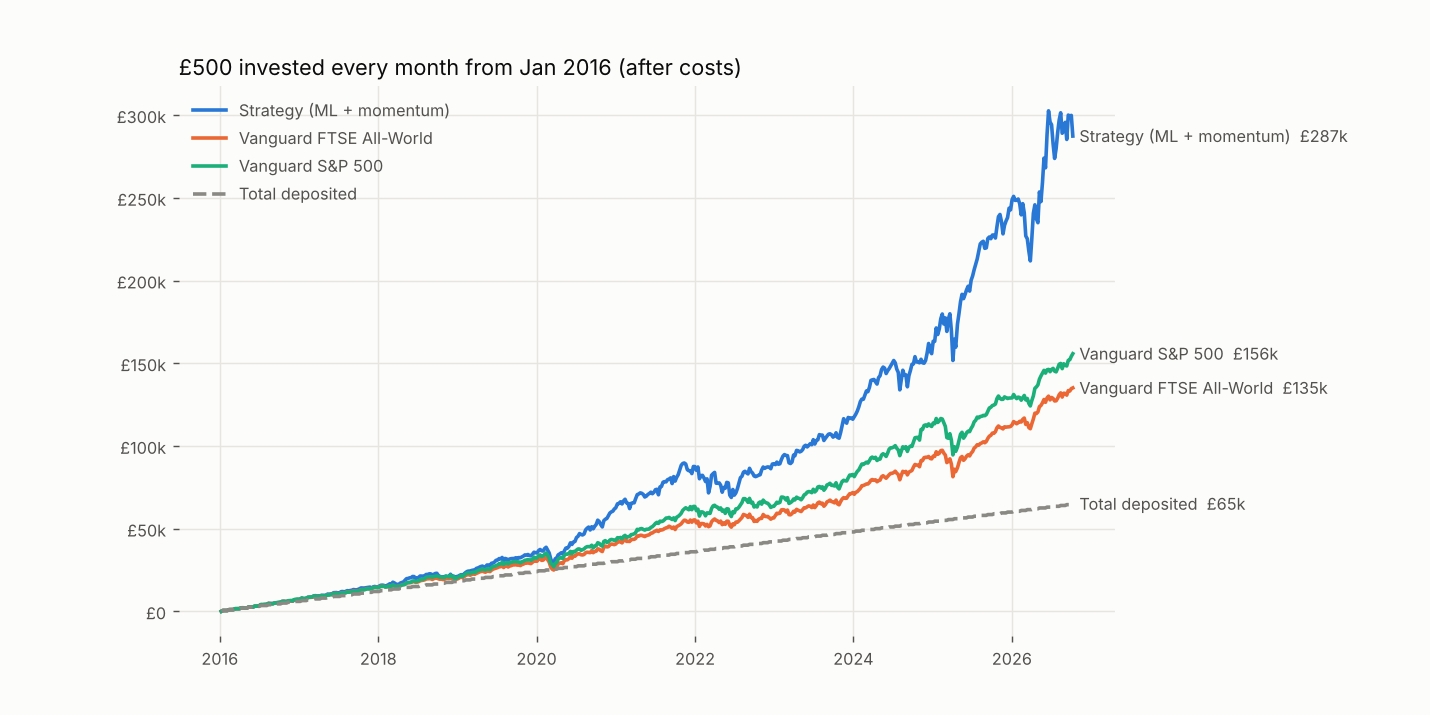
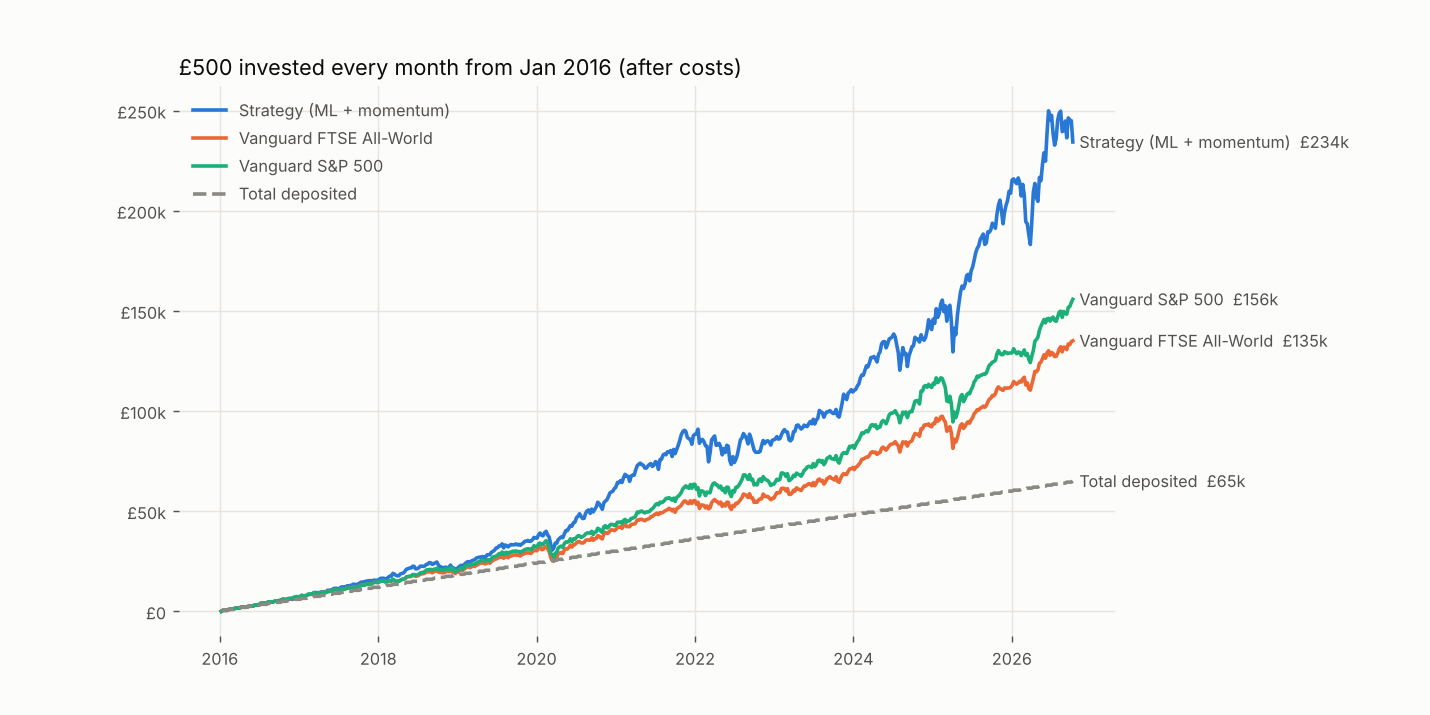
Plan: results with weekly retraining; rerun Phase 1b variant search
Weekly retraining (matching the live run): strategy 24.4% CAGR, Sharpe 1.18,
holdout 22.3% / 1.00, vs 16.5% / 13.9% for S&P 500 / All-World buy & hold.
Documents how much results move with implementation details (+-3 pts full
period, +-6 pts holdout) at an unchanged IC of ~0.022.

Phase 1b rerun with weekly retraining: ML only (10 stocks) and the residual/
sector-momentum model now pass the pre-set rule, where none passed with
4-week retraining, and none improves the holdout. Decision left open.
Both runs' full tables are in docs/.

Claude-Session: https://claude.ai/code/session_014oMbSvjq6m2KbbSfiWCRmW

diff --git a/PLAN.md b/PLAN.md
@@ -217,14 +217,14 @@ weeks, score smoothing 1 or 4 weeks, hold band 45/90/150. The best tuning-period
 1-week labels, 4-week smoothing and a top-150 hold band. All 12 combinations beat the benchmark's
 CAGR on the holdout, so the result does not depend on one lucky setting.
 
-### Results with the chosen settings (5-seed ensemble)
+### Results with the chosen settings (5-seed ensemble, weekly retraining)
 
 **Lump sum: £10,000 invested once in January 2016**
 
 | | Final value | CAGR | Volatility | Sharpe | Max drawdown |
 |---|---|---|---|---|---|
-| **Strategy (70% ML + 30% momentum)** | **£127,171** | **26.6%** | 20.6% | **1.25** | −26.5% |
-| ML only | £109,143 | 24.8% | 20.8% | 1.17 | −25.0% |
+| **Strategy (70% ML + 30% momentum)** | **£105,545** | **24.4%** | 20.2% | **1.18** | −24.7% |
+| ML only | £135,845 | 27.4% | 20.8% | 1.27 | −25.7% |
 | Momentum rule only | £40,989 | 14.0% | 15.9% | 0.90 | −23.2% |
 | Buy & hold Vanguard S&P 500 (VUSA) | £51,916 | 16.5% | 15.3% | 1.08 | −25.1% |
 | Buy & hold Vanguard FTSE All-World (VWRL) | £40,638 | 13.9% | 13.9% | 1.01 | −24.6% |
@@ -234,66 +234,73 @@ CAGR on the holdout, so the result does not depend on one lucky setting.
 
 | Invested into | Final value | Money-weighted return (XIRR) |
 |---|---|---|
-| **Strategy** | **£287,349** | **25.8%** |
+| **Strategy** | **£234,329** | **22.4%** |
 | Vanguard S&P 500 | £155,767 | 15.4% |
 | Vanguard FTSE All-World | £135,089 | 13.0% |
 
 ![Monthly investing](docs/backtest_dca.png)
 
-Weekly turnover 5.9%, costs 0.9% of the account a year, about 22 stock swaps a year. The strategy beat
-VWRL in 10 of 11 calendar years (it lagged in 2022) and the equal-weight universe in 8 of 11. Profits
-came from 121 different stocks; the top 10 made 51% of the total (NVIDIA, Rolls-Royce, Tesla, BBVA and
-UniCredit were the largest).
+Weekly turnover 5.2%, costs 0.8% of the account a year, about 20 stock swaps a year. The strategy beat
+VWRL in 9 of 11 calendar years (it lagged in 2022 and in 2026 to date) and the equal-weight universe in
+8 of 11. Profits came from 123 different stocks; the top 10 made 52% of the total (NVIDIA, UniCredit,
+Rolls-Royce, ASM International and AMD were the largest).
 
-### Tuning period vs holdout, and why the blend rather than ML only
+### Tuning period vs holdout
 
 | | Tuning, Jan 2016 – Jun 2024: CAGR / Sharpe | **Holdout, Jul 2024 – Oct 2026: CAGR / Sharpe** |
 |---|---|---|
-| **Strategy (blend)** | 25.8% / 1.26 | **29.7% / 1.22** |
-| ML only | 28.2% / 1.30 | 12.8% / 0.67 |
+| **Strategy (blend)** | 25.0% / 1.24 | **22.3% / 1.00** |
+| ML only | 29.7% / 1.38 | 19.0% / 0.90 |
 | Momentum rule only | 14.7% / 0.93 | 11.2% / 0.79 |
 | Buy & hold VWRL | 13.3% / 0.95 | 16.1% / 1.23 |
 | Buy & hold VUSA | 16.7% / 1.07 | 15.7% / 1.12 |
 | Equal-weight universe | 18.5% / 1.20 | 14.1% / 1.17 |
 
-The 70/30 weight was set before any real-data result and never tuned. ML only looked better in the
-tuning period but fell to 12.8% in the holdout, while the blend held up. The momentum rule steadied
-the strategy through a weak stretch for the ML signal. This comparison uses the holdout, so the
-holdout can no longer be used to tune the weight. The weight stays at 70/30, and paper trading is the
-next independent test. In the holdout the strategy's risk-adjusted return (Sharpe 1.22) was about the
-same as the global index fund's (1.23): it earned more by taking more risk.
+The 70/30 weight was set before any real-data result. ML only looked better in the tuning period and
+worse in the holdout, in both versions of the backtest (§14). In the holdout the strategy earned more
+than the index funds but with a lower Sharpe (1.00 against 1.23 for VWRL): it took more risk for it.
+The holdout has now been viewed several times, so paper trading is the next independent test.
 
-### Seed sensitivity and the ensemble
+### How much the numbers move with implementation details
 
-Training the same settings with four different random seeds gave 28.2%, 23.4%, 24.1% and 24.8% CAGR
-(holdout 27.6%, 20.2%, 23.2%, 17.5%). With 15 positions, one different early pick changes every later
-trade. The live model therefore averages five seeds. **Treat a single backtest figure as ±3 points.**
-Same-seed reruns are identical. An earlier 25.3% → 27.6% shift came from Yahoo revising its data
-between two downloads.
+The same strategy, implemented slightly differently:
+
+| Version | Full-period CAGR | Sharpe | Holdout CAGR |
+|---|---|---|---|
+| Single model (seed 0), retrained every 4 weeks | 28.2% | 1.32 | 27.6% |
+| Single model (seeds 1–3), retrained every 4 weeks | 23.4–24.8% | 1.17–1.23 | 17.5–23.2% |
+| 5-seed ensemble, retrained every 4 weeks | 26.6% | 1.25 | 29.7% |
+| **5-seed ensemble, retrained weekly (current)** | **24.4%** | **1.18** | **22.3%** |
+
+The model's skill barely changes across these (weekly IC 0.021–0.022). The portfolio results move
+because, with 15 positions, one different borderline pick changes every later trade. **Treat any single
+backtest figure as about ±3 points over the full period and ±6 points over the holdout.** Same-seed
+reruns are identical; an earlier 25.3% → 27.6% shift came from Yahoo revising its data between two
+downloads. The live run and the backtest now retrain on the same weekly schedule, and a test checks that
+they produce identical scores.
 
 ### Sector cap test
 
 A cap of 4 stocks per sector cut CAGR from 25.3% to 22.2% over the full period, and from 26.9% to
-18.9% in the holdout (Sharpe 0.96), in a single-seed run. Drawdowns didn't improve. The cap is
-available but off by default. Today's universe includes the semiconductor winners *because* they won,
-so the backtest likely overstates the value of concentrating in them.
+18.9% in the holdout (Sharpe 0.96), in a single-seed run with 4-week retraining. Drawdowns didn't
+improve. The cap is available but off by default. Today's universe includes the semiconductor winners
+*because* they won, so the backtest likely overstates the value of concentrating in them.
 
 ### How to read these numbers
 
 - **Survivorship bias inflates the strategy, not the index funds.** The strategy picks from today's
   large caps. VWRL and VUSA are real funds you could have bought in 2016. The fair stock-picking
-  measure is the excess over the equal-weight universe (~9 pts a year), and even that is probably
+  measure is the excess over the equal-weight universe (~7 pts a year), and even that is probably
   optimistic.
 - **The edge is modest and volatile.** Weekly IC is ~0.02, and the model ranks stocks better than
-  chance in only 55% of weeks (the portfolio itself is up in 60% of weeks). The strategy is also more
-  volatile than an index fund (20.6% vs 13.9%), with similar worst drawdowns.
+  chance in only ~56% of weeks. The strategy is also more volatile than an index fund (20.2% vs 13.9%),
+  with similar worst drawdowns.
 - **Next step:** paper trade for 8–12 weeks (Phase 2). Compare live weekly IC and turnover with the
   backtest before committing the 10k.
 
 ## 14. Phase 1b: testing the weights and other strategy variants (October 2026)
 
-**Rules set before running** (`research/phase1b_variants.py`, full results in
-`docs/phase1b_variants.csv`):
+**Rules set before running** (`research/phase1b_variants.py`):
 
 1. Choose only on Jan 2016 – Jun 2024. The Jul 2024 – Oct 2026 holdout had already been viewed, so it
    is reported but not used to choose.
@@ -305,38 +312,48 @@ so the backtest likely overstates the value of concentrating in them.
 × equal or inverse-volatility weights), plus 3 model variants (trees with residual and within-sector
 momentum; linear model; linear with the extra features).
 
-**Result: no variant passed. The strategy is unchanged.**
+The search ran twice: first with the model retrained every 4 weeks
+(`docs/phase1b_variants_4wk_retrain.csv`), then again after switching to weekly retraining
+(`docs/phase1b_variants.csv`).
 
-| ML weight (average over settings) | Selection-period Sharpe | Holdout Sharpe |
+**Results with weekly retraining**
+
+| Variant | Selection CAGR / Sharpe | Sub-period Sharpes | Holdout CAGR / Sharpe | Rule: weekly / 4-week run |
+|---|---|---|---|---|
+| **Current: 70% ML, 15 stocks, equal, trees** | 25.0% / 1.24 | 1.16 / 1.75 / 0.70 | 22.3% / 1.00 | — |
+| ML only, 10 stocks, equal | 35.9% / 1.47 | 1.29 / 1.94 / 1.14 | 20.8% / 0.95 | passes / failed |
+| ML only, 10 stocks, inverse-vol | 31.0% / 1.41 | 1.28 / 1.86 / 1.04 | 19.6% / 0.95 | passes / failed |
+| ML only, 15 stocks | 29.0% / 1.35 | 1.30 / 1.73 / 0.96 | 17.0% / 0.84 | fails / failed |
+| 50% ML, 15 stocks | 24.4% / 1.29 | 1.10 / 1.69 / 1.00 | 25.9% / 1.17 | fails / failed |
+| Trees + residual/sector momentum | 27.6% / 1.36 | 1.22 / 1.88 / 0.91 | 20.6% / 0.94 | passes / failed |
+| Linear model | 21.8% / 1.07 | 0.73 / 1.39 / 1.04 | 33.9% / 1.42 | fails / failed |
+| Linear + residual/sector momentum | 23.1% / 1.12 | 0.77 / 1.71 / 0.79 | 31.3% / 1.29 | fails / failed |
+
+| ML weight (average over settings) | Selection Sharpe: weekly / 4-week run | Holdout Sharpe: weekly / 4-week run |
 |---|---|---|
-| 0% (momentum only) | 0.95 | 0.81 |
-| 30% | 1.14 | 1.07 |
-| 50% | 1.21 | 1.21 |
-| **70% (current)** | 1.19 | 1.17 |
-| 100% (ML only) | 1.27 | 0.98 |
+| 0% (momentum only) | 0.95 / 0.95 | 0.81 / 0.81 |
+| 30% | 1.19 / 1.14 | 1.12 / 1.07 |
+| 50% | 1.19 / 1.21 | 1.14 / 1.21 |
+| **70% (current)** | 1.19 / 1.19 | 0.96 / 1.17 |
+| 100% (ML only) | 1.29 / 1.26 | 1.02 / 0.98 |
 
-| Variant | Selection CAGR / Sharpe | Sub-period Sharpes | Holdout CAGR / Sharpe |
-|---|---|---|---|
-| **Current: 70% ML, 15 stocks, equal, trees** | 25.8% / 1.26 | 1.19 / 1.60 / 0.94 | 29.7% / 1.22 |
-| ML only, 10 stocks (best selection Sharpe) | 33.7% / 1.38 | 1.48 / 1.49 / 1.14 | 17.9% / 0.87 |
-| ML only, 15 stocks | 28.8% / 1.33 | 1.41 / 1.52 / 1.03 | 17.2% / 0.89 |
-| 50% ML, 10 stocks | 28.8% / 1.31 | 1.16 / 1.70 / 1.00 | 29.0% / 1.20 |
-| Trees + residual/sector momentum | 25.9% / 1.27 | 1.07 / 1.81 / 0.82 | 21.9% / 1.00 |
-| Linear model | 24.2% / 1.16 | 0.74 / 1.70 / 0.96 | 27.3% / 1.22 |
-| Linear + residual/sector momentum | 23.2% / 1.12 | 0.83 / 1.61 / 0.83 | 28.4% / 1.24 |
+**Assessment**
 
-**What we learned**
+- **Three variants pass the rule with weekly retraining, and none did with 4-week retraining.** Whether a
+  variant passes depends on a minor implementation detail, which means the rule is mostly sorting noise.
+- **None of the passing variants improves the holdout.** ML only with 10 stocks: 20.8% / 0.95. Trees +
+  residual/sector momentum: 20.6% / 0.94. Current: 22.3% / 1.00.
+- **The signals themselves are indistinguishable.** Weekly IC is 0.023 for ML only and 0.022 for the
+  blend. Portfolio-level differences come mainly from which borderline stocks a 10–15 stock portfolio
+  happens to hold.
+- **ML only is consistently best in the selection period and weaker in the holdout**, in both runs.
+- **Momentum only is clearly worse** (Sharpe 0.95), so the ML model adds value. **10–25 stocks and
+  equal vs inverse-volatility weights make little difference.** The trees beat a linear model in the
+  selection period in both runs.
 
-- **The 50–70% ML blend is the robust region.** ML only is best in the selection period and worst in
-  the holdout. Picking it from the backtest would have cut holdout returns from ~30% to ~18% a year.
-- **10–15 stocks beat 20–25** on both return and Sharpe. **Inverse-volatility sizing did not help**
-  (average Sharpe 1.13 against 1.17 for equal weights).
-- **The trees beat a linear model** in the selection period (1.26 against 1.16), so they add value.
-- **The residual and within-sector momentum features added nothing robust.**
-- **The current settings sit on a plateau.** Neighbouring settings score 1.25–1.31, so the result
-  isn't a lucky spike. A Sharpe ratio estimated over 8.5 years has a standard error of about ±0.45,
-  and the best of 44 variants would beat the current one by ~0.1 from chance alone. Differences of
-  this size can't be told apart from noise.
+**Decision: open.** The rule technically picks ML only with 10 stocks, but the evidence above says the
+backtest cannot tell these variants apart. Recommended: keep the current strategy, and paper trade the
+rule's pick alongside it, so live data decides.
 
 **Implication for the roadmap.** More tuning of the same 15 price and volume features is unlikely to
 help. Improvements should come from **new information**: point-in-time fundamentals and earnings
